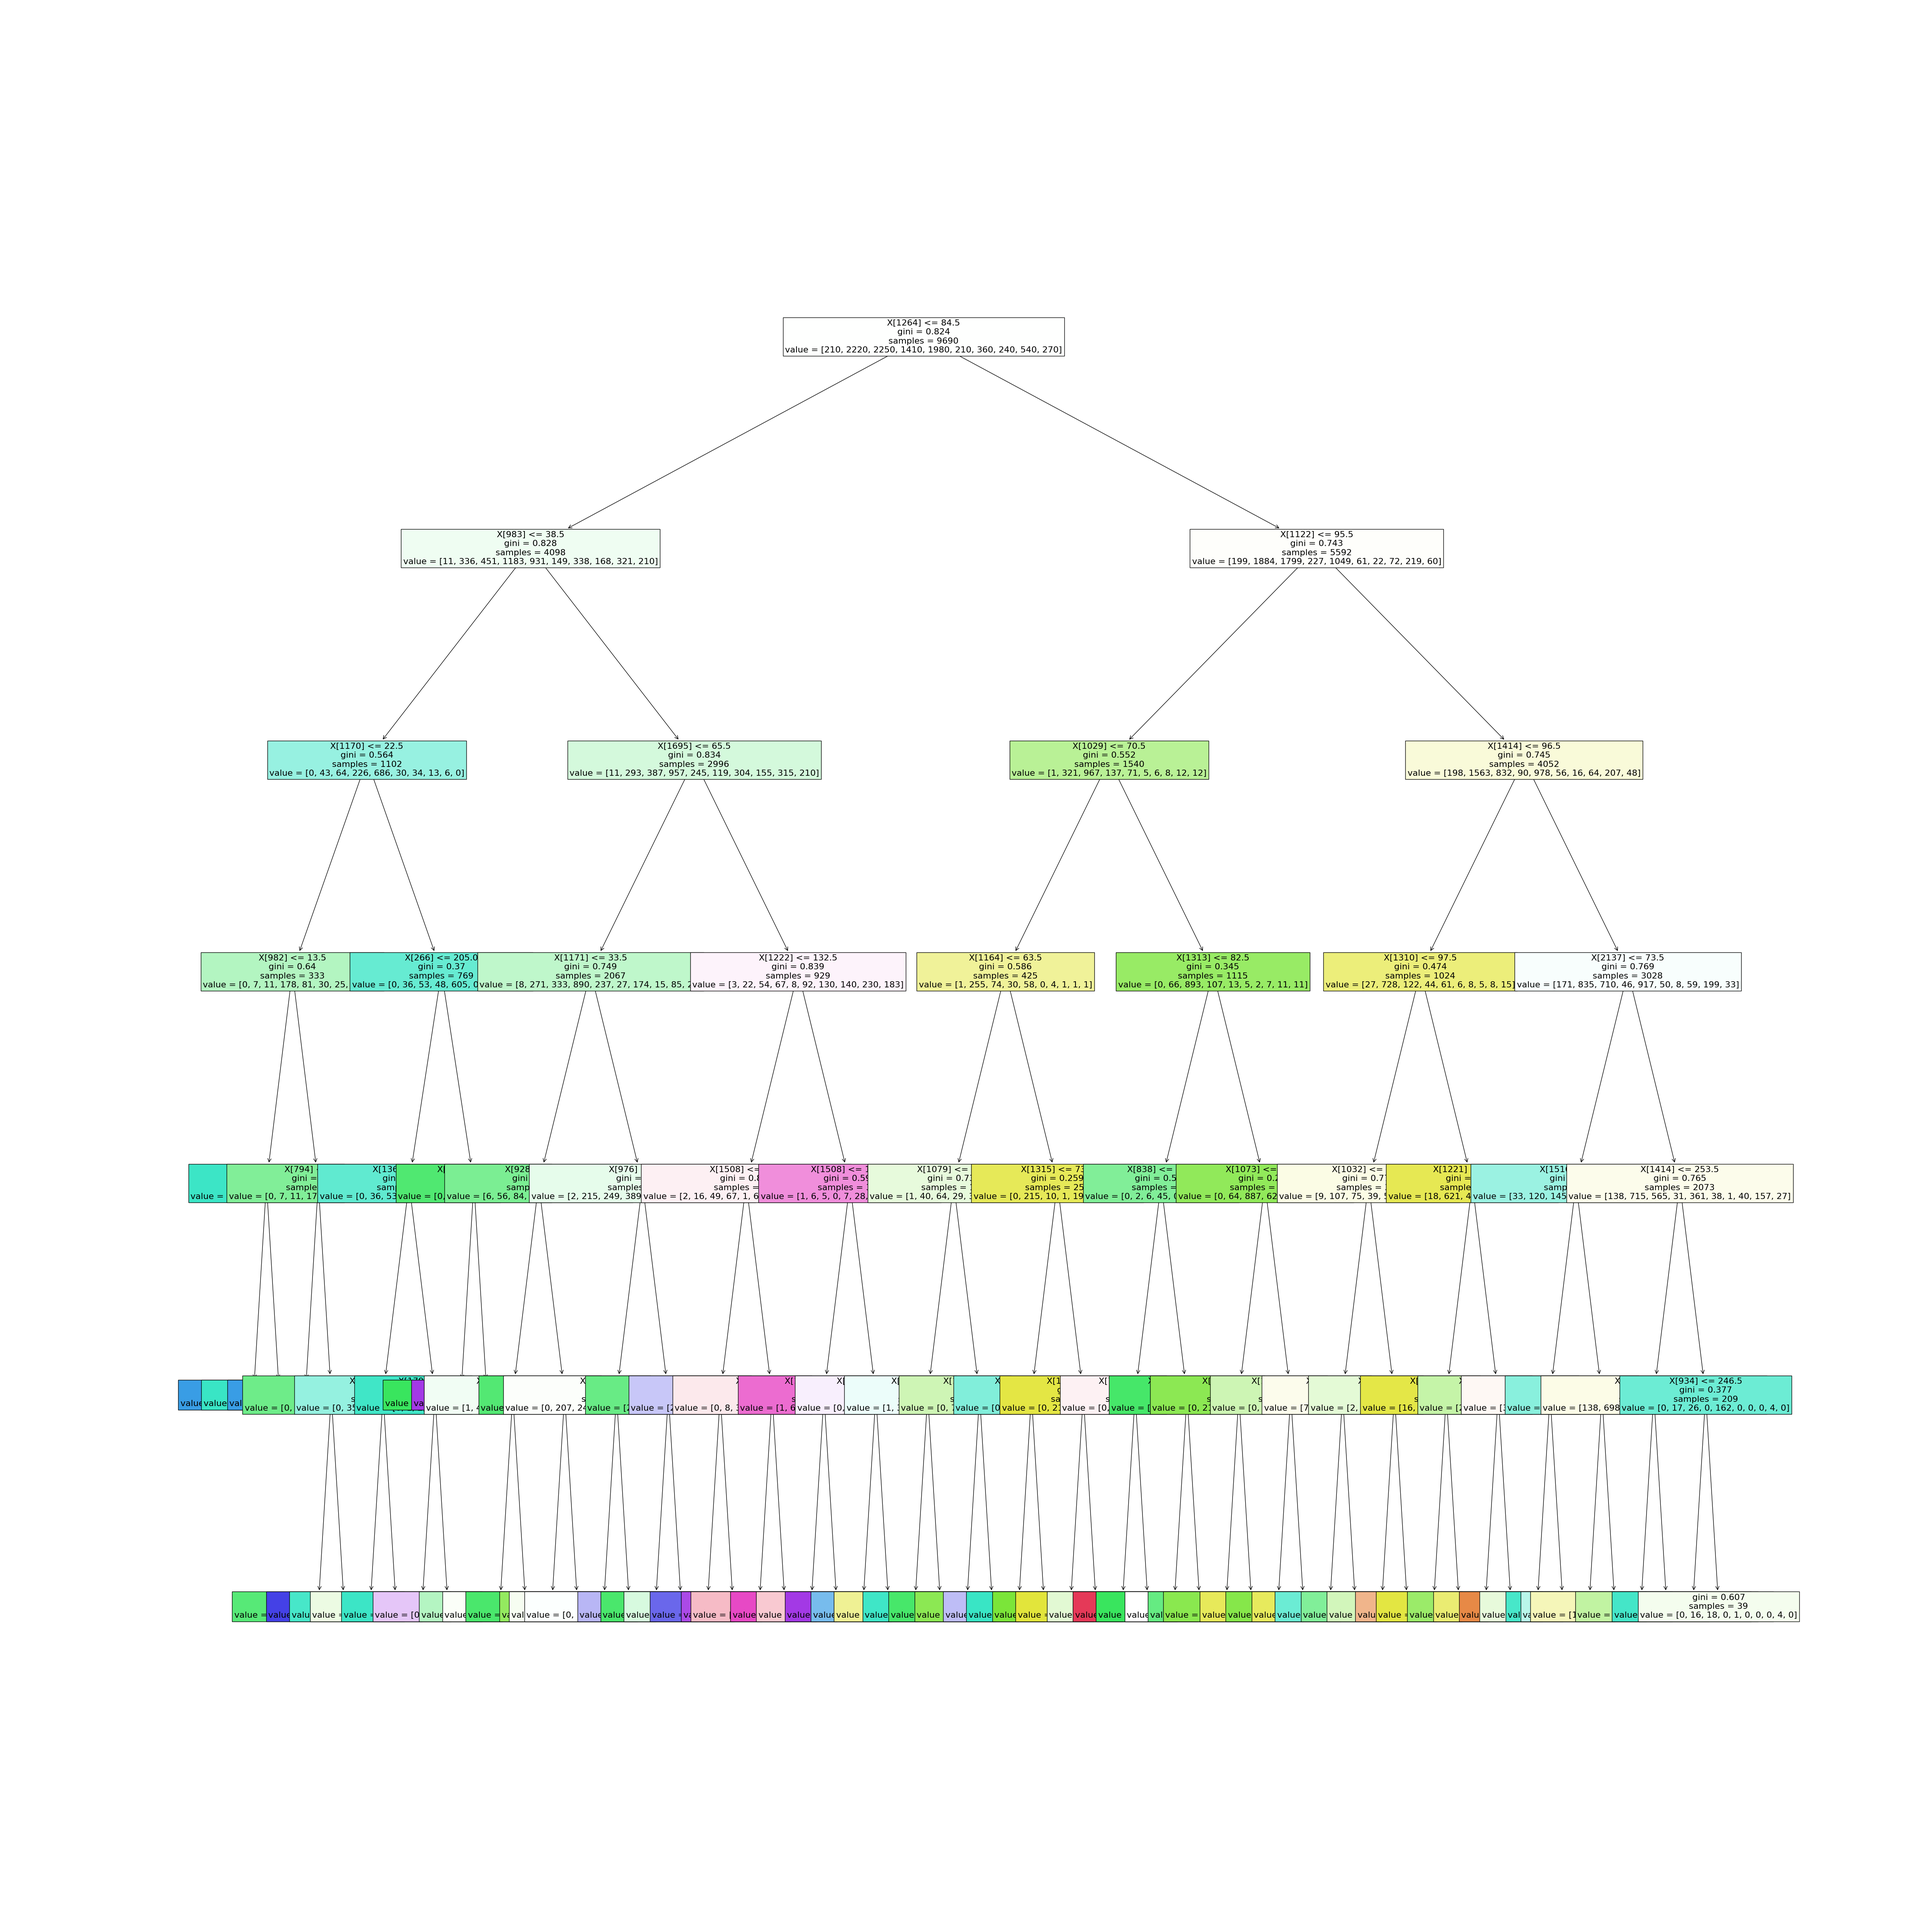
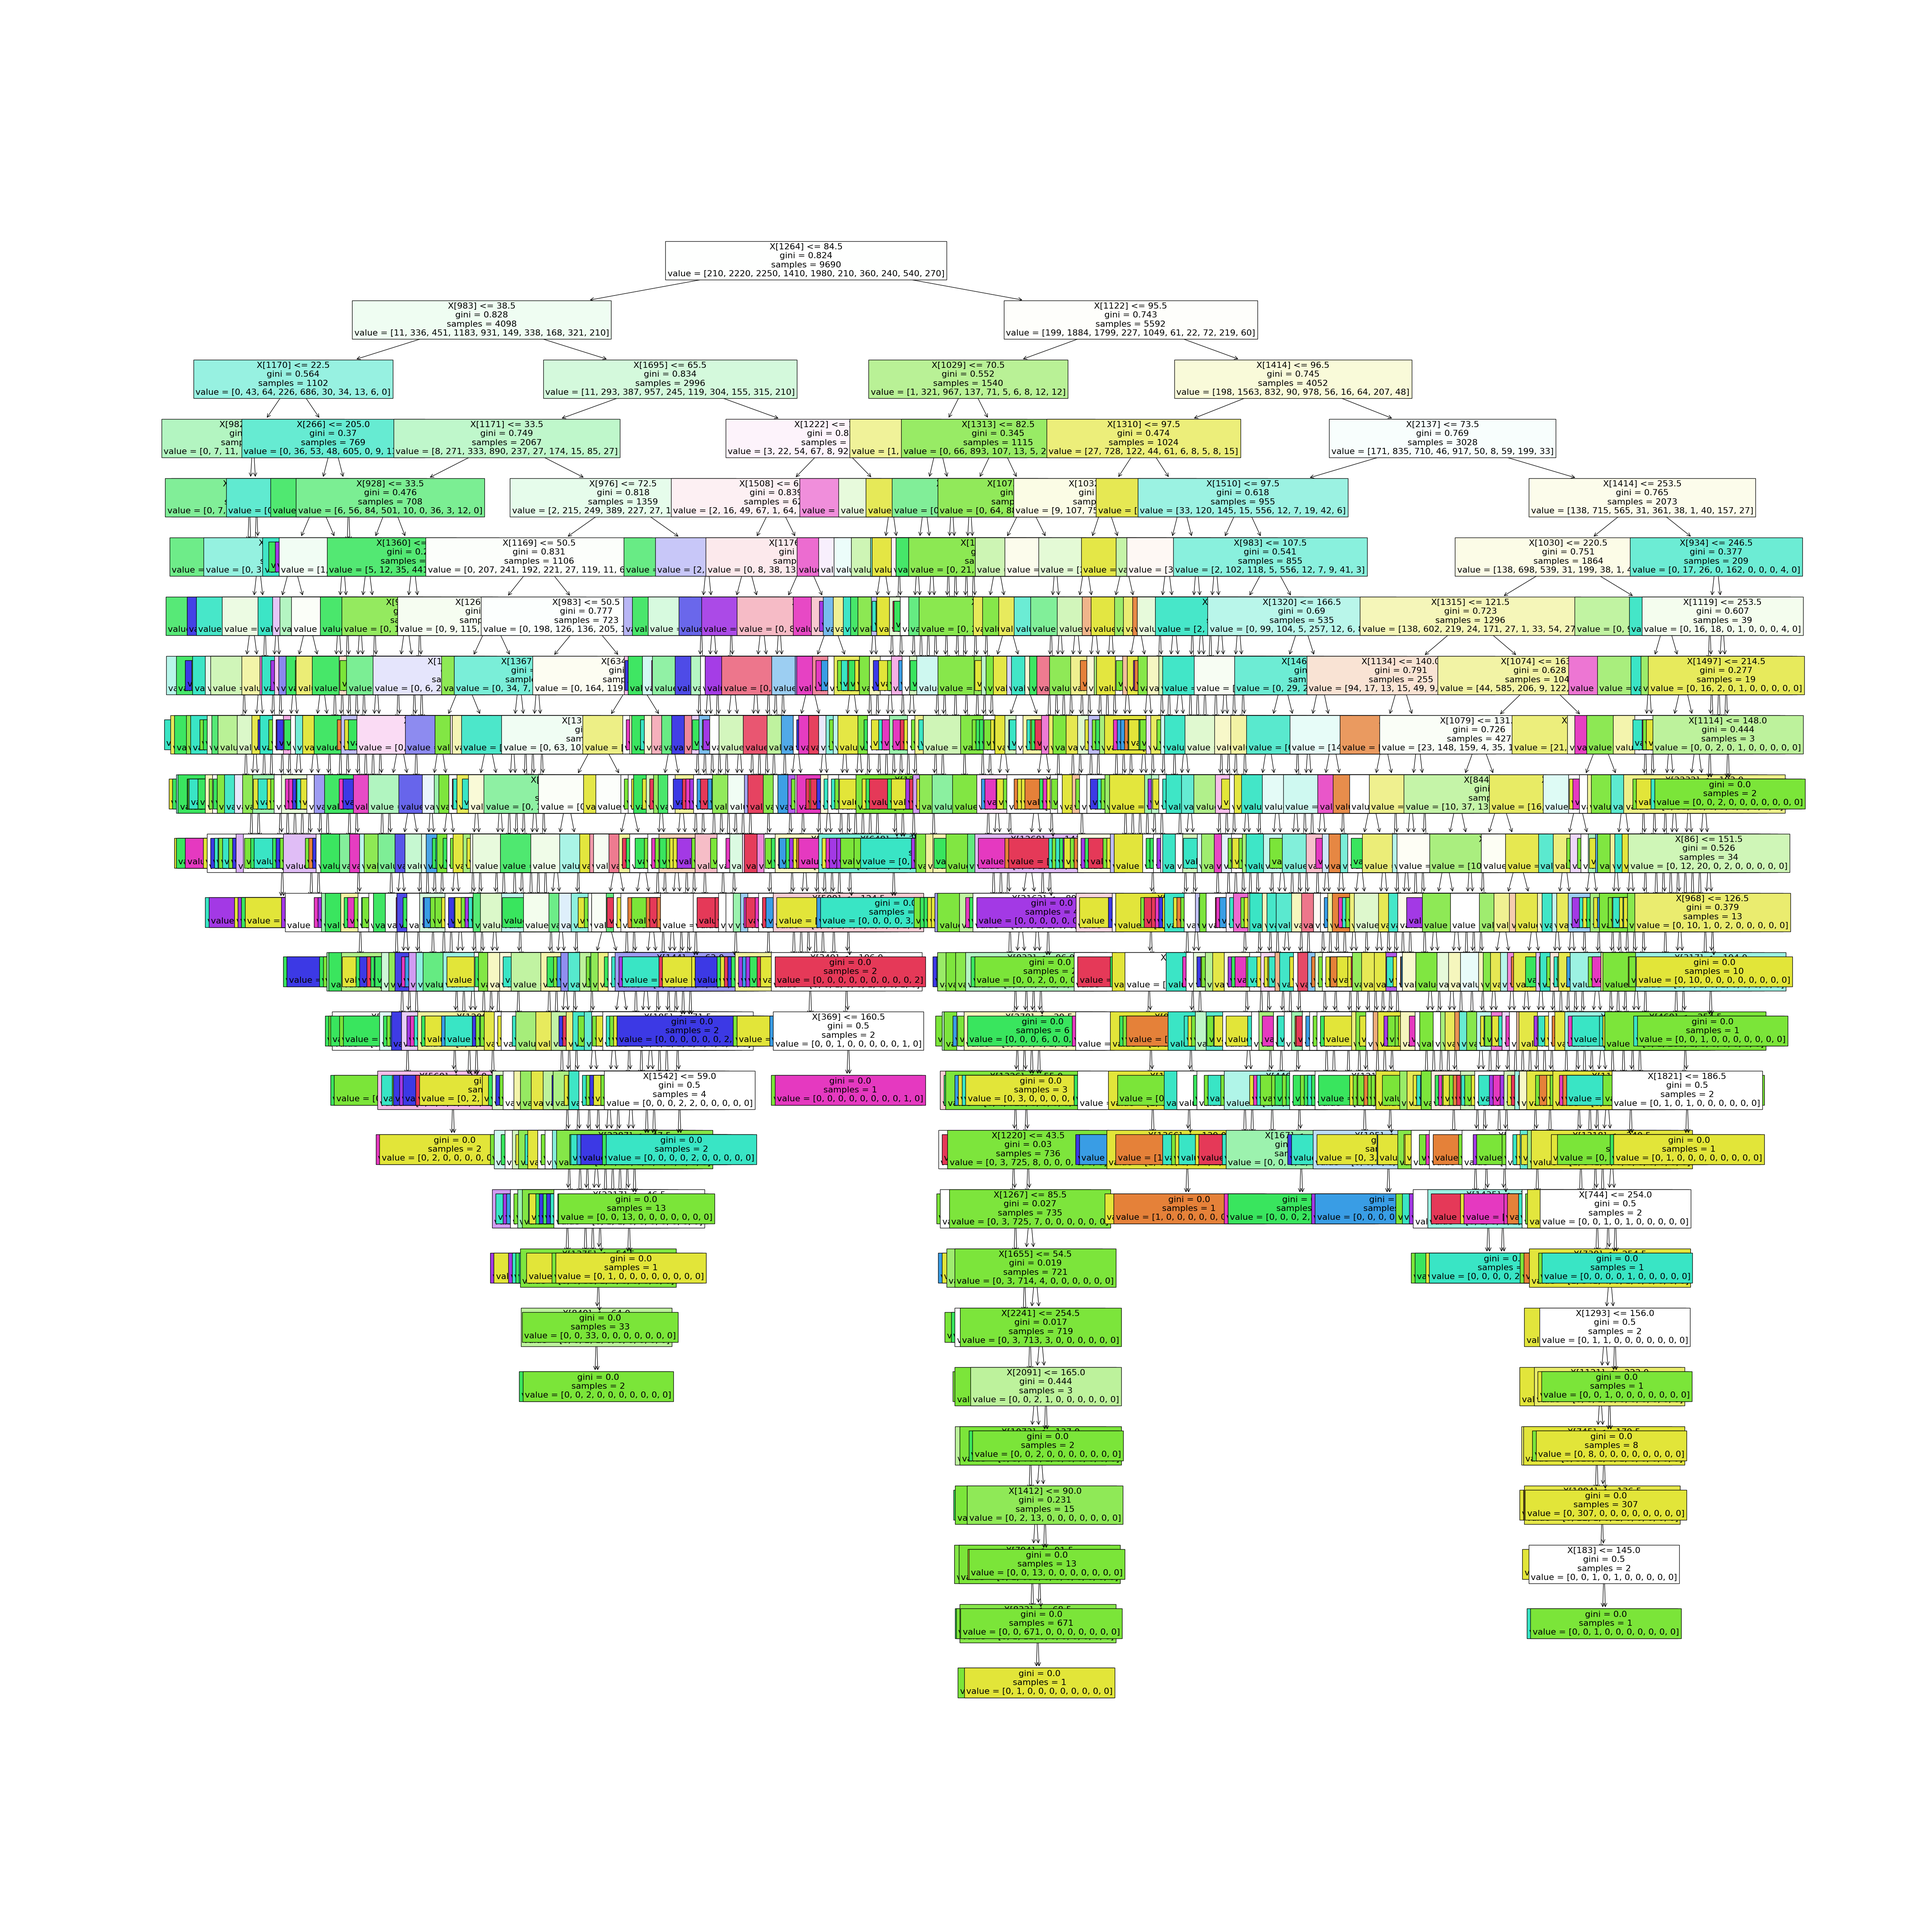
DT Task 1 complete

Changed region(s): [[0.0624, 0.156, 0.936, 0.9048], [0.2184, 0.156, 0.2808, 0.1872], [0.4056, 0.1248, 0.4368, 0.156]]

diff --git a/Decision_Trees/J48_DT.py b/Decision_Trees/J48_DT.py
@@ -5,93 +5,105 @@ import matplotlib.pyplot as plt
 import numpy as np
 import pandas as pd
 from sklearn.metrics import accuracy_score
-from sklearn.preprocessing import label_binarize
 
-plt.rcParams["figure.figsize"] = (50, 50)
-
+# total training data
 data = pd.read_csv("../training_data/x_train_gr_smpl.csv")
 labels = pd.read_csv("../training_data/y_train_smpl.csv")
-X_test = pd.read_csv("../testing_data/x_test_gr_smpl.csv")
-Y_test = pd.read_csv("../testing_data/y_test_smpl.csv")
-y_bin = pd.read_csv("../training_data/y_train_smpl_0.csv")
 
 
 # generate j48 decision tree for various depths and present the accuracy with a confusion matrix
-def decisionTree(tree):
+def decisionTree(tree, visualise, mean_std):
     # Run the J48 tree classifier
-    print("\nJ48 Starting ...")
-    visualiseTree(DT.fit(data, labels))
-    # Run cross validation to find the mean score and use neg_mean_squared_error
-    print("Starting CV .......")
-    cross = cross_val_score(tree, data, labels, scoring="neg_mean_squared_error", cv=10)
-    tree_scores = np.sqrt(-cross)
-    print("Finished CV ")
+    print("\nJ48 Starting ....")
 
-    # Present means score and standard deviation for the cross validation
-    print("\n### Mean Score : " + str(tree_scores.mean()) + " ###")
-    print("### STD Score " + str(tree_scores.std()) + " ###\n")
+    # visualise tree
+    if visualise:
+        visualiseTree(DT.fit(data, labels))
+
+    # Run cross validation to find the mean score and use neg_mean_squared_error
+    if mean_std:
+        print("Starting CV ....")
+        cross = cross_val_score(tree, data, labels, scoring="neg_mean_squared_error", cv=10)
+        tree_scores = np.sqrt(-cross)
+        print("Finished CV ")
+
+        # Present means score and standard deviation for the cross validation
+        print("\n### Mean Score : " + str(tree_scores.mean()) + " ###")
+        print("### STD Score " + str(tree_scores.std()) + " ###\n")
 
     # Run cross validation to find the prediction on the data and labels then print the confusion matrix
-    print("Starting confusion matrix .....")
+    print("Starting confusion matrix ....")
     cross_pred = cross_val_predict(tree, data, labels, cv=10)
     print("Confusion Matrix:\n", metrics.confusion_matrix(labels, cross_pred))
-    # tpr, fpr, auc = metrics.roc_curve(labels, cross_pred)
-    """ y_pred = label_binarize(cross_pred, classes=[1, 2, 3, 4, 5, 6, 7, 8, 9])
-    y_test = label_binarize(labels, classes=[1, 2, 3, 4, 5, 6, 7, 8, 9])
-    fpr, tpr, threshold = metrics.roc_curve(y_test, y_pred)
-    roc_auc = metrics.auc(fpr, tpr)
-    print(roc_auc)"""
-    print(metrics.classification_report(labels, cross_pred))
 
+    # get precision, recall and f1 measure
+    print("\n", metrics.classification_report(labels, cross_pred))
 
-
-    """
-    print("Thresholds : ", auc)
-    print("Precision : ", metrics.precision_score(labels, cross_pred, average='micro'))
-    print("Recall : ", metrics.recall_score(labels, cross_pred, average='micro'))
-    print("F1 Measure : ", metrics.f1_score(labels, cross_pred, average='micro'))
-    print("ALL : ", metrics.precision_recall_fscore_support(labels, cross_pred, average='macro'))
-    """
+    # get tpr, fpr and ROC area
+    print("\n", get_TPR_FPR(cross_pred, "train", visualise))
+    print("\n", get_ROC_AREA(cross_pred, "train"))
 
     # Get accuracy of the cross validation
     accuracy = accuracy_score(labels, cross_pred)
-    print("Accuracy: " + str(accuracy))
+    print("\nAccuracy: " + str(accuracy))
 
 
-def plot_roc(model, X_test, y_test):
-    # calculate the fpr and tpr for all thresholds of the classification
-    probabilities = model.predict_proba(np.array(X_test))
-    predictions = probabilities[:, 1]
-    fpr, tpr, threshold = metrics.roc_curve(y_test, predictions)
-    roc_auc = metrics.auc(fpr, tpr)
+# get ROC using the binary files
+# fileType can either be "train" or "test"
+# returns data frame containing the ROC area for each binary file
+def get_ROC_AREA(prediction, fileType):
+    auc_arr = list()
+    for i in range(0, 10):
+        auc_arr.append(metrics.roc_auc_score(pd.read_csv("../training_data/y_"+fileType+"_smpl_"+str(i)+".csv")
+                                             , prediction))
+    return pd.DataFrame(data=auc_arr, columns=["ROC Area"])
 
-    plt.title('Receiver Operating Characteristic')
-    plt.plot(fpr, tpr, 'b', label='AUC = %0.2f' % roc_auc)
-    plt.legend(loc='lower right')
-    plt.plot([0, 1], [0, 1], 'r--')
-    plt.xlim([0, 1])
-    plt.ylim([0, 1])
-    plt.ylabel('True Positive Rate')
-    plt.xlabel('False Positive Rate')
-    plt.show()
+
+# get tpr and fpr rate for certain binary files.
+# fileType can either be "train" or "test"
+# returns data frame containing the True positive rate and false positive rate for each binary file
+def get_TPR_FPR(prediction, fileType, visualise):
+    rates = list()
+    for i in range(0, 10):
+        fpr, tpr, thresholds = metrics.roc_curve(pd.read_csv("../training_data/y_"+fileType+"_smpl_" + str(i) + ".csv")
+                                                 , prediction)
+        rates.append([np.mean(tpr), np.mean(fpr)])
+        if visualise:
+            plot_roc_curve(i, fpr, tpr)
+    return pd.DataFrame(data=rates, columns=["Average tpr", "Average fpr"])
 
 
 # visualise tree using matplotlib
 def visualiseTree(tree):
+    plt.figure(figsize=(50, 50))
     print("Plotting Tree ....")
     sk.plot_tree(tree, fontsize=16, filled=True)
     plt.savefig("plots/Decision_Tree_Q1.png")
     plt.show()
 
 
-def decision_trees_test_data(tree):
+# plots ROC curve given FPR and TPR values
+def plot_roc_curve(label, fpr, tpr):
+    title = "Rate for class " + str(label)
+    plt.figure(figsize=(8, 6))
+    plt.plot(fpr, tpr)
+    plt.axis([0, 1, 0, 1])
+    plt.xlabel("False Positive Rate")
+    plt.ylabel("True Positive Rate")
+    plt.suptitle(title)
+    plt.grid(True)
+    plt.show()
+
+
+# test method for when test data needs to be used.
+def decision_trees_test_data(tree, testData):
     tree.fit(data, labels)
-    prob = tree.predict(X_test)
+    prob = tree.predict(testData)
     print(prob)
     print(len(prob))
-    metrics.confusion_matrix()
+    metrics.confusion_matrix(labels, prob)
 
 
-DT = sk.DecisionTreeClassifier(max_depth=6, random_state=42)
-
-decisionTree(DT)
+# initialise decision tree classifier
+DT = sk.DecisionTreeClassifier(max_depth=None, random_state=42)
+decisionTree(tree=DT, visualise=True, mean_std=False)
